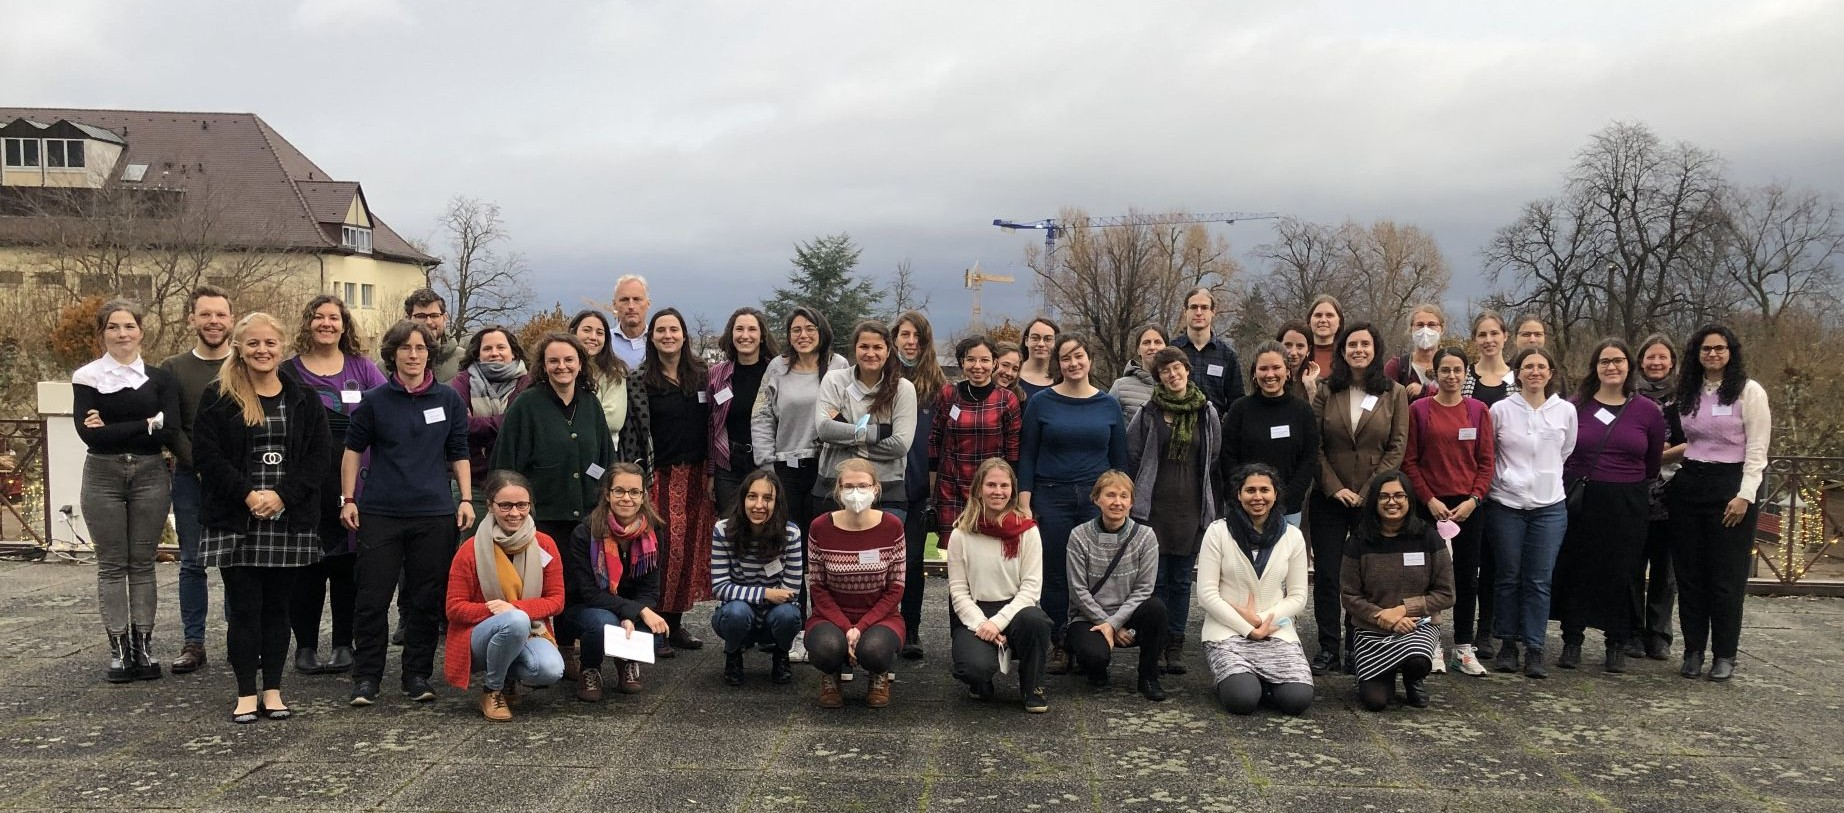
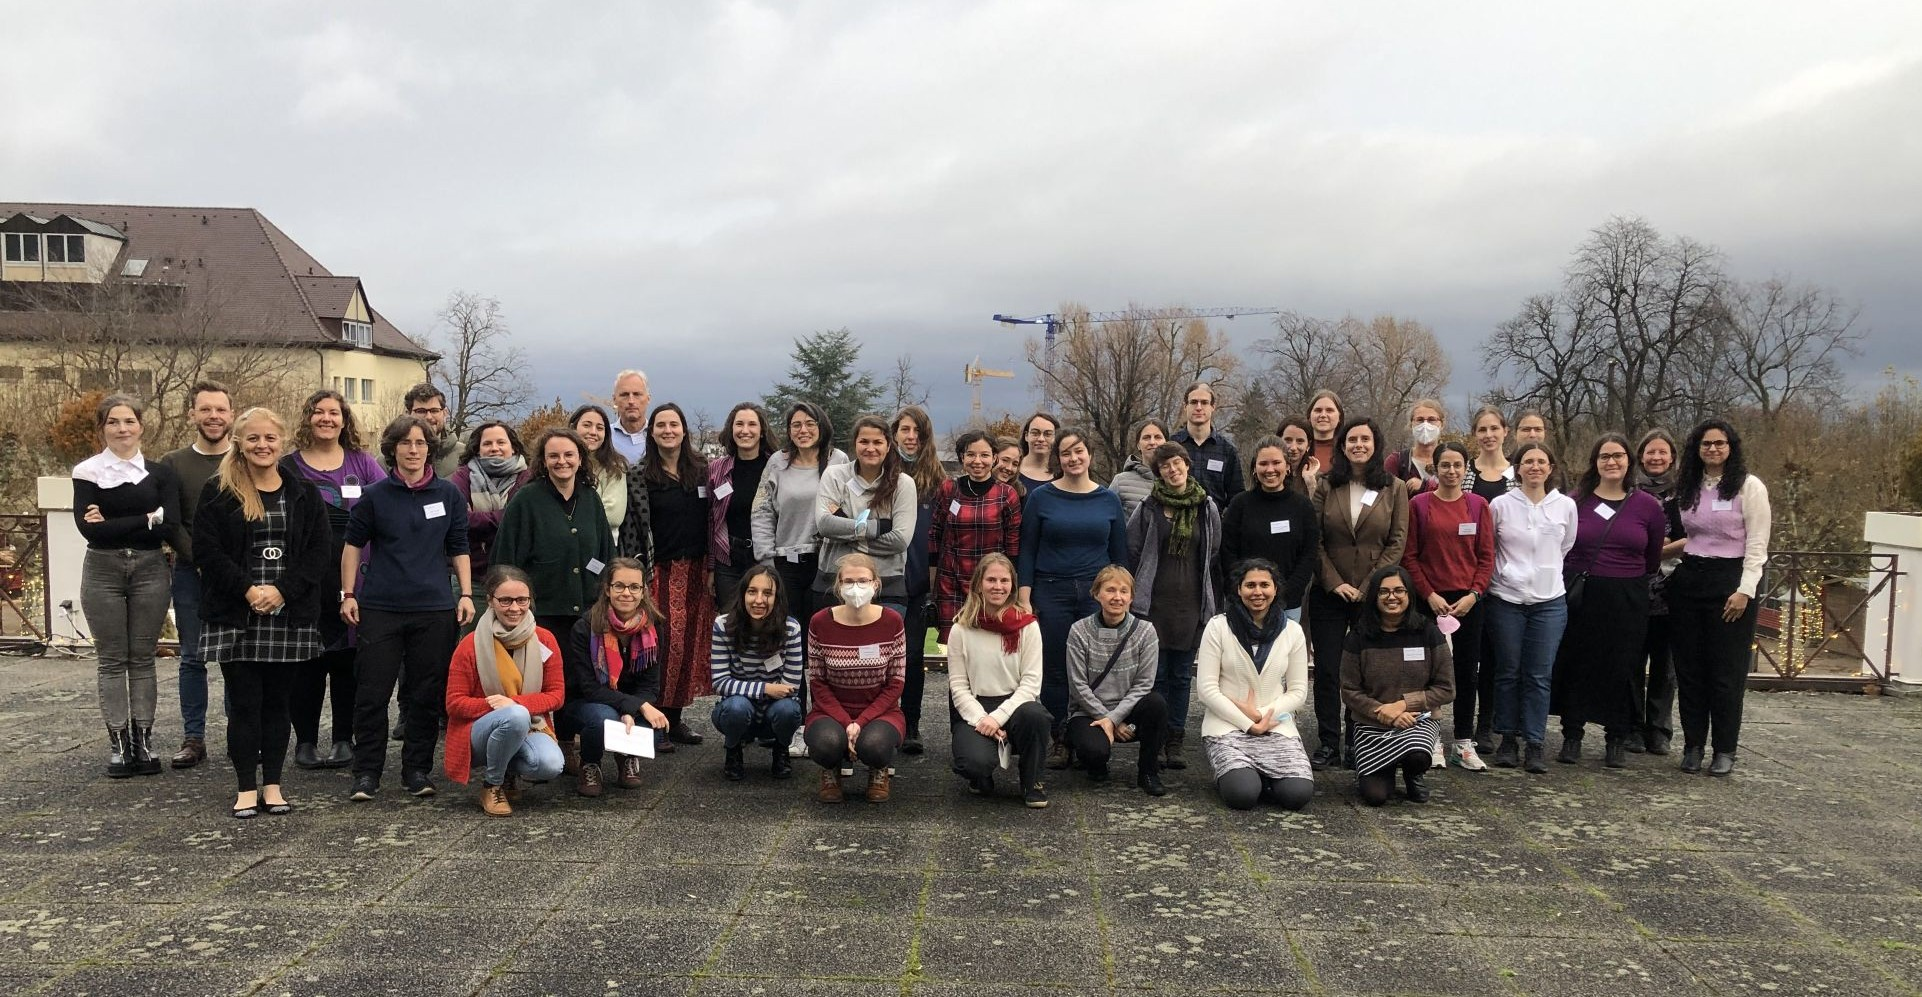
Fix the cropping of the images

diff --git a/index.html b/index.html
@@ -117,7 +117,7 @@
     <section class="col-md-9 col-sm-12 col-xs-12 col-md-offset-3 first profile rez_about">
       <div class="rez_top_title">
       		<h1>İrem Portakal<a href="#footnote-1">*</a></h1>
-          <p id="footnote-1",p style="font-size: 11px",p align ="right">''İ'' is the uppercase of "i" in Turkish. It is pronanciated for example as the German letter "i" or the English letter "e".</p>
+          <p id="footnote-1",p style="font-size: 12px",p align ="right">''İ'' is the uppercase of "i" in Turkish. It is pronanciated for example as the German letter "i" or the English letter "e".</p>
       </div>
       <h1 class="title">About Me</h1>
 
